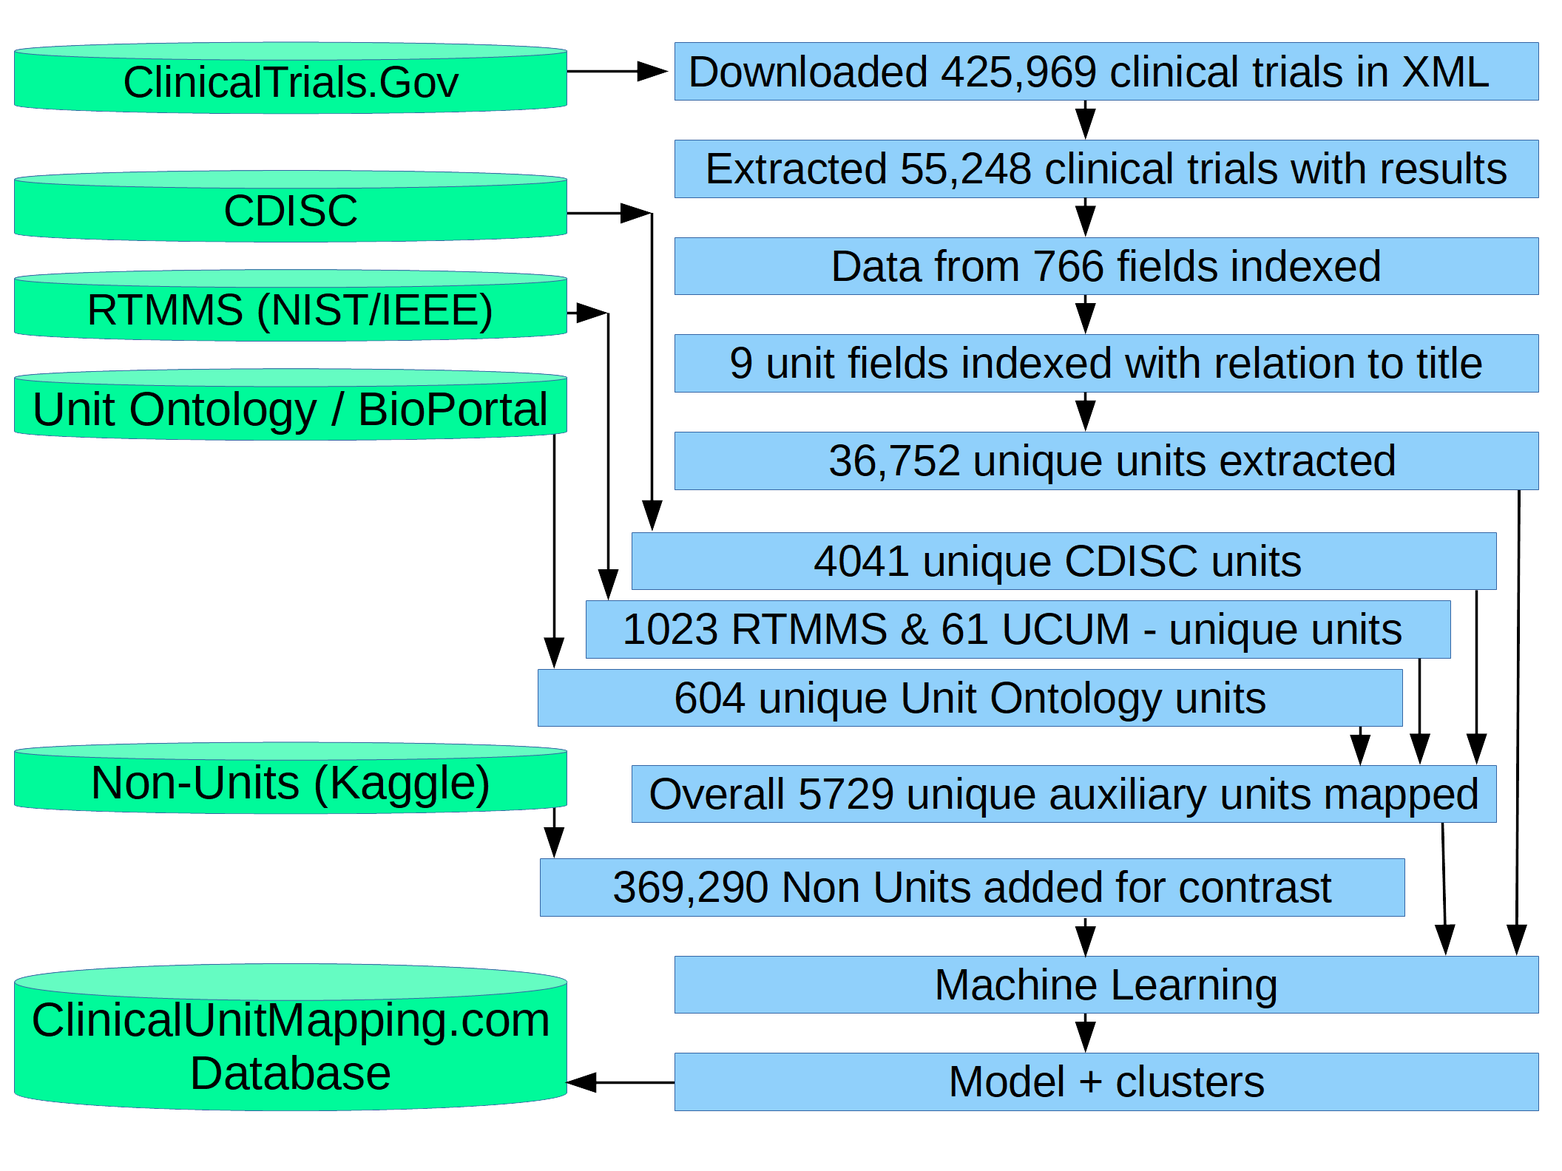
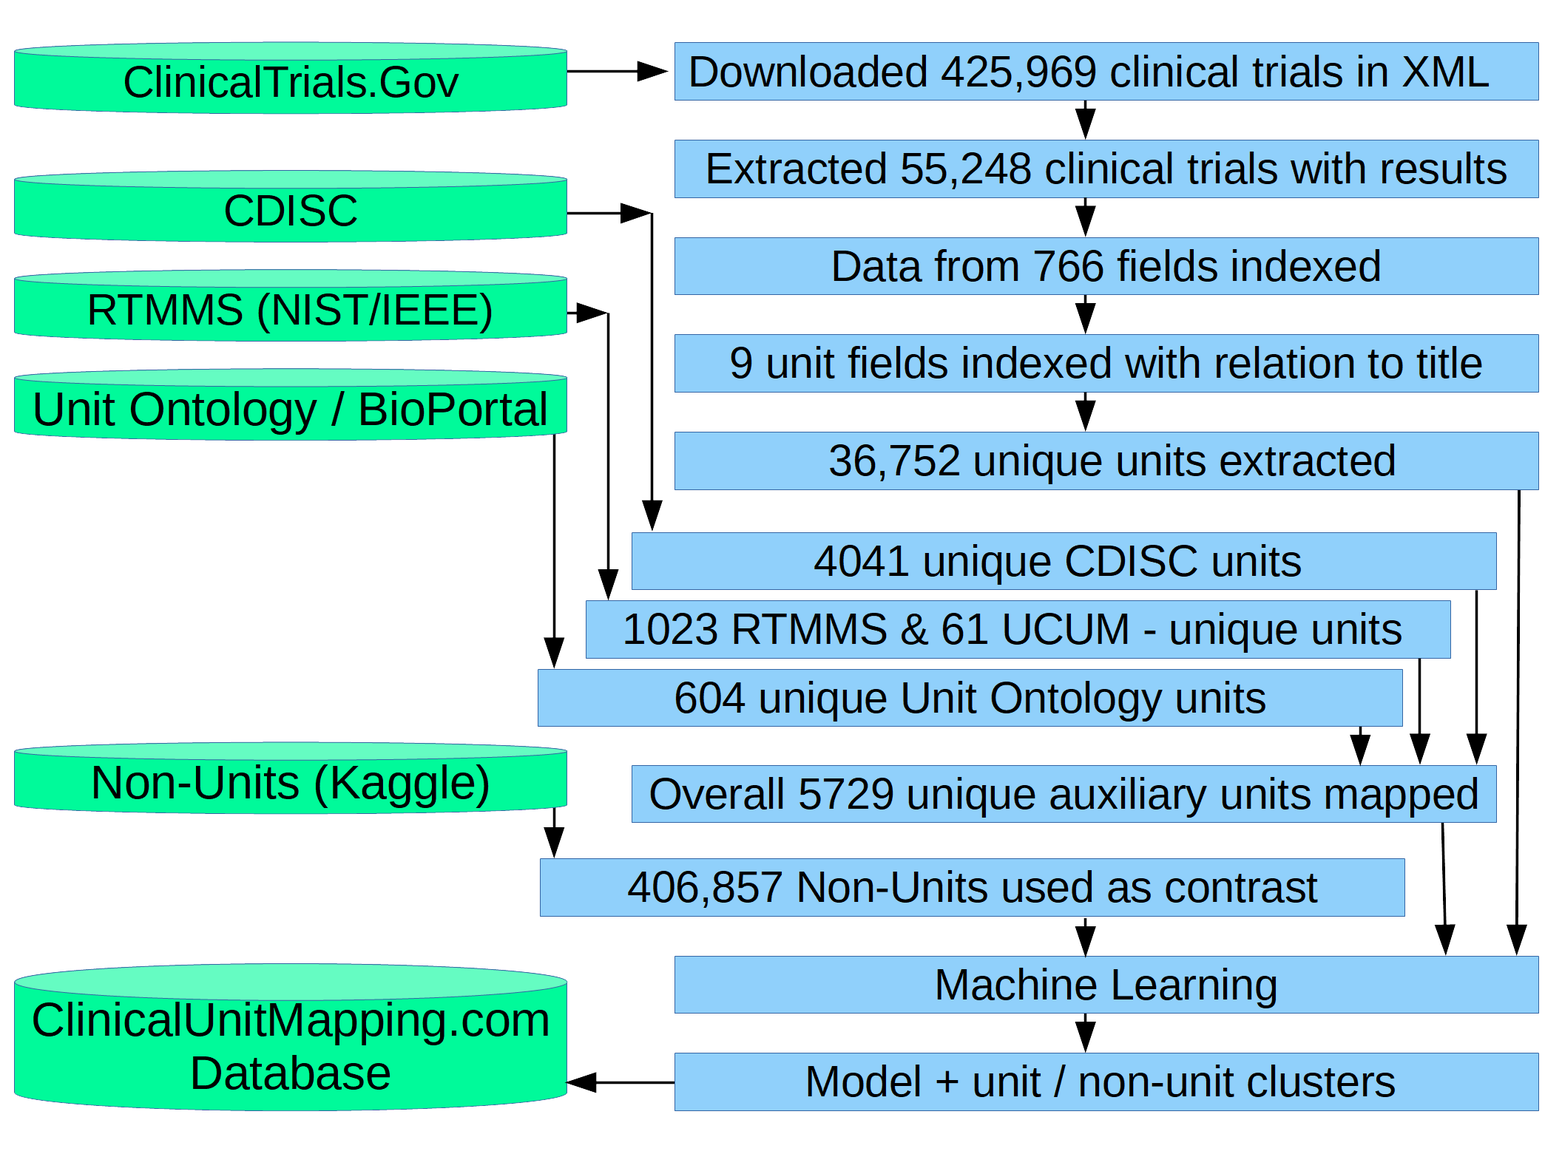
Upload presentations towards Berlin conference
Uploaded Covid-19 and unit mapping presentation code. Only code and some images were uploaded - large files and data were skipped.

Changed region(s): [[0.5, 0.8971, 0.9062, 0.959], [0.375, 0.7424, 0.8438, 0.7734]]

diff --git a/COVID19_Ensemble_Latest/COVID19_Ensemble_Latest.py b/COVID19_Ensemble_Latest/COVID19_Ensemble_Latest.py
@@ -154,9 +154,9 @@ QRCodeFileName = 'New_COVID19_Ensemble_Latest.png'
 PresentationURL = panel.panel(ConstractImageLinkAnchor(PublishURL,QRCodeFileName,'View this publication on the web',380), width=380, height=380)
 
 PresentationTitle = panel.panel('# The Reference Model for COVID-19 attempts to explain USA data', width=Width, height=40, margin = (0,0,0,0))
-PresentationVenue = panel.panel('[MODSIM WORLD, Norfolk, VA 20-22 May 2024](https://modsimworld.org/)', width=740, height=40, margin = (0,0,0,0))
+PresentationVenue = panel.panel('[2nd Global Congress on Healthcare & Patient Safety, Berlin, July 29 - 30, 2024](https://healthcareconference.pagicle.com/)', width=750, height=40, margin = (0,0,0,0))
 
-PresentationAuthors = panel.panel("By: ***[Jacob Barhak](https://sites.google.com/view/jacob-barhak/home)***", width=280, height=40, margin = (0,0,0,0))
+PresentationAuthors = panel.panel("By: ***[Jacob Barhak](https://sites.google.com/view/jacob-barhak/home)***", width=350, height=40, margin = (0,0,0,0))
 
 PresentationHeader = panel.Column( PresentationTitle, panel.Row (PresentationAuthors , PresentationVenue, margin = (0,0,0,0)), margin = (0,0,0,0))
 
@@ -277,7 +277,7 @@ The Reference Model for disease progression was initially a diabetes model. It u
 
 The model performs simulation at the individual level while modeling entire populations using the MIcro-Simulation Tool (MIST), employing High Performance Computing (HPC), and using machine learning techniques to combine models.
 
-The Reference Model technology was transformed to model COVID-19 near the start of the epidemic. The model is now composed of multiple models from multiple contributors that represent different phenomena: It includes infectiousness models, transmission models, human response / behavior models, mortality models, and observation models. Some of those models were calculated at different scales including cell scale, organ scale, individual scale, and population scale.
+The Reference Model technology was transformed to model COVID-19 near the start of the epidemic. The model is now composed of multiple models from multiple contributors that represent different phenomena: It includes infectiousness models, transmission models, human response / behavior models, hospitalization models, mortality models, and observation models. Some of those models were calculated at different scales including cell scale, organ scale, individual scale, and population scale.
 
 The Reference Model has therefore reached the achievement of being the first known multi-scale ensemble model for COVID-19. This project is ongoing and this presentation is constantly updated for each venue. To access the most recent publication please use this link [https://www.clinicalunitmapping.com/show/COVID19_Ensemble_Latest.html](https://www.clinicalunitmapping.com/show/COVID19_Ensemble_Latest.html)
 
@@ -286,6 +286,9 @@ The Reference Model has therefore reached the achievement of being the first kno
 
 Different versions of this presentation can be accessed below: 
 
+
+
+* [2nd Global Congress on Healthcare & Patient Safety, Berlin, July 29 - 30, 2024](https://healthcareconference.pagicle.com/) - [view presentation](https://www.clinicalunitmapping.com/show/COVID19_Ensemble_Berlin_2024_07_22.html) , [download presentation](https://www.clinicalunitmapping.com/download/COVID19_Ensemble_Berlin_2024_07_22.html)
 * [MODSIM WORLD, Norfolk, VA 20-22 May 2024](https://modsimworld.org/) - [view presentation](https://www.clinicalunitmapping.com/show/COVID19_Ensemble_MODSIM_2024_05_19.html) , [download presentation](https://www.clinicalunitmapping.com/download/COVID19_Ensemble_MODSIM_2024_05_19.html)
 * [CAFCW23 Computational Approaches for Cancer Workshop, November 12, 2023](https://ncihub.cancer.gov/groups/cafcw/cafcw23/cafcw23_program) - [view presentation](https://www.clinicalunitmapping.com/show/COVID19_Ensemble_CAFCW_2023_11_12.html) , [download presentation](https://www.clinicalunitmapping.com/download/COVID19_Ensemble_CAFCW_2023_11_12.html)
 * [2023 MSM Consortium Meeting - Past2Future, NIH Campus, Natcher Conference Center, Bethesda MD, 28-29 June 2023](https://www.imagwiki.nibib.nih.gov/index.php/imag-events/2023-MSM-Meeting)  - [view presentation](https://www.clinicalunitmapping.com/show/COVID19_Ensemble_MSM_IMAG_2023_06_28.html) , [download presentation](https://www.clinicalunitmapping.com/download/COVID19_Ensemble_MSM_IMAG_2023_06_28.html)
@@ -302,12 +305,6 @@ PublishURL = 'https://www.clinicalunitmapping.com/show/'+SavedFileName
 CodePublishURL = 'https://github.com/Jacob-Barhak/Presentations/tree/master/COVID19_Ensemble_Latest'
 QRCodeFileName = 'New_COVID19_Ensemble_Latest.png'
  
-PresentationURL = panel.panel(ConstractImageLinkAnchor(PublishURL,QRCodeFileName,'View this publication on the web',380), width=380, height=380)
-
-PresentationTitle = panel.panel('# The Reference Model for COVID-19 attempts to explain USA data', width=Width, height=40, margin = (0,0,0,0))
-PresentationVenue = panel.panel('[CAFCW23 Computational Approaches for Cancer Workshop, November 12, 2023](https://ncihub.cancer.gov/groups/cafcw/cafcw23/cafcw23_program)', width=740, height=40, margin = (0,0,0,0))
-
-
 
 if YouTubeVideo:
     Section0Video = panel.panel(YouTubeVideoEmbed('https://www.youtube.com/embed/s9L-qFF84Ew?si=V5yd2kTC3fW5Mtmc', Width=Width,Height=590))
@@ -329,16 +326,17 @@ Section1_1_2 = panel.panel(FixReferences(RefDict,"""
 
 The ensemble model structure is presented above. The transition probabilities between states is controlled by multiple models:
 
-* ***Infectiousness Models***: Indicating the level of infectiousness of each individual from time of infection. 
-* ***Transmission Models***: Indicating the probability of contracting the disease considering encounters with infected individuals.
+* ***Infectiousness models***: Indicating the level of infectiousness of each individual from time of infection. 
+* ***Transmission models***: Indicating the probability of contracting the disease considering encounters with infected individuals.
 * ***Response models***: The behavior choice of each individual that affects the number of interactions in response to the pandemic. 
 * ***Hospitalization models***: Indicating the probability and time of hospitalization of infected individuals.
-* ***Mortality Models***: A variety of models defining mortality of infected individuals 
+* ***Mortality models***: A variety of models defining mortality of infected individuals 
     * ***Mortality rate models***: Mortality tables indicating the probability of dying from COVID-19 by age.
     * ***Mortality time***: Models attempting to estimate the time of death in days since infection
     * ***Mortality distribution***: A model that indicates the daily probability of mortality by age group since infection. 
 * ***Recovery model***: defines condition of recovery as a combination of infectiousness, mortality probability, mortality time, and time since infection. 
-* ***Observation Models***: defines how an observer sees the numbers - recall that numbers reported are not always accurate. The observer model corrects this.
+* ***Observation models***: defines how an observer sees the numbers - recall that numbers reported are not always accurate. The observer model corrects this.
+
 The Reference Model combines these models and matches their results to results from The COVID Tracking project [1].
 
 ### Initialization
@@ -377,7 +375,7 @@ Section2_2 = panel.panel(FixReferences(RefDict,"""### Combined Infectiousness Mo
 
 The relative infectiousness per day since infection will be assembled by the ensemble.
 
-If such information was available in May 2022, the DHS could have had infectiousness information at hand.
+If such information was available in May 2020, the DHS could have had infectiousness information at hand.
 """), width=Width, height=None)
 
 Figure_5 = ObjectInlineHTML(ResourceDir + '/EnsembleInfectiousness.html', Width=1150, Height=320)
@@ -520,7 +518,7 @@ Section7_1 = panel.panel(FixReferences(RefDict,"""### Results
 The results presented here was executed on a server with 24 CPU cores for about 6 weeks - this means roughly 3 year of computation on a single CPU core. The Interactive plots below summarize the results:
 This simulation has 4 cohorts for each state starting at days 0,15,30,45. Each simulation runs for 21 days and repeated 10 times. Simulation was stopped after 40 iterations.
 
-* ***Population Plot - Top Left*** - This plot shows difference between model and observed data - fitness. The fitness score is displayed for each state population starting at different times. ***Each different start time is considered as a different cohort of the population***. A viewer hovering with the mouse over the circle will see information about the population cohort at that time including number of infections and deaths. The numbers are presented as model projection / observed numbers by the COVID tracking project. The numbers are scaled to cohort batch size of ***10,000 individuals*** in this simulation. The fitness score in this work is a norm of the observed mortality difference and observed infections difference.
+* ***Population Plot - Top Left*** - This plot shows difference between model and observed data - fitness. The fitness score is displayed for each state population starting at different times. ***Each different start time is considered as a different cohort of the population***. A viewer hovering with the mouse over the circle will see information about the population cohort at that time including number of infections and deaths. The numbers are presented as model projection / observed numbers by the COVID tracking project. The numbers are scaled to cohort batch size of ***10,000 individuals***. The fitness score is a norm of the model to observed differences in mortality, infections, and hospitalization normalized.
 
 * ***Model Mixture Plot - Top Right*** -  This plot shows the influence of each model on the ensemble. Models from the same group that compete with each other are presented in the same color and their combined influence will be 1. Initially all models in a group have the same influence so in iteration 1 the plot shows many bars in the same height. When dragging the iteration slider to increase the iteration, it is possible to see that some models gain influence while others lose it. It is possible for a model to be fully rejected. 
 
@@ -529,11 +527,11 @@ This simulation has 4 cohorts for each state starting at days 0,15,30,45. Each s
 
 ## The interesting element in this simulation:
 
-* Preference of infectiousness profiles that peak around day 5. 
+* Preference of longer infectiousness profiles. 
 * The transmission model where warm weather reduces transmission becomes dominant.
 * Preference of the Castiglione mortality model based on cell and organ failure that deals with mortality time.
 * Behavioral response models based of mobility data are less influential than those based on state closure regulations.
-* The observer models with extreme multiplier of 20 is eliminated and is replaced by other observer models that are considered mainstream.
+* The observer models with extreme infectiousness multiplier of 20 is eliminated and is replaced by a blend of observer models with multipliers of 1, 5, and 7.5.
 
 """), width=Width, height=600)
 
@@ -552,11 +550,11 @@ Section10_1 = panel.panel(FixReferences(RefDict,"""### Conclusions
 
 * The technique used is a form of Explainable Artificial Intelligence that relies on computing power.
 
-* It is difficult to explain the phenomena like COVID-19 impact in a population using data collected for 3 weeks using mechanistic models.
+* It is difficult to explain the phenomena like COVID-19 impact in a population using data collected for only 3 weeks using mechanistic models.
 
     * To reach conclusions, more than a few weeks of data are required to balance for errors and data has to be reused.
 
-    * Some models that seem dominant in short simulations are eliminated when computation is repeated. 
+    * Model mixture changes when computation was repeated for many cohorts over a longer period. 
 
 * Peak average infectiousness is around day 5 from infection.
 
@@ -578,8 +576,8 @@ Section10SummaryText = panel.panel(FixReferences(RefDict,"""
 ### Reproducibility:
 Results presented in this work are archived in the file MIST_Ref_COVID19_Prelim_2024_03_06.zip for reproducibility purposes. MIST version 0.99.7.8 and python 2.7.18 with the Anaconda distribution were used for executing the simulation.
 Visualization processing is archived in: ExplorationCOVID19_2024_03_06_10K_01Apr_15Dx3_21Dx40x48.zip .
-This presentation is accessible [here](%s). The code that generated the presentation can be accessed [here](%s). This presentation is generated using Python 2.7.16, panel-0.8.0, holoviews 1.12.7, bokeh-1.4.0.
-Published versions of this presentation are archived [here](https://github.com/Jacob-Barhak/Presentations/commits/master/COVID19_Ensemble_Latest)
+This presentation is accessible [here](%s). The code that generated the presentation can be accessed [here](%s) without the large resource files. This presentation is generated using Python 2.7.16, panel-0.8.0, holoviews 1.12.7, bokeh-1.4.0.
+Published versions of this presentation are provided at the first tab.
 
 ### Conflict of Interest Statement:
 Payment/services info: Dr. Barhak reports non-financial support and other from Rescale, and MIDAS Network, other from Amazon AWS, Microsoft Azure, MIDAS network, other from The COVID tracking project at the Atlantic, other from John Rice and Jered Hodges. 
@@ -646,13 +644,13 @@ Thanks to these organizations for providing cloud computing power:
 
 Thanks to SciPod for good video production services.
 
-Thanks to those who hosted me / my compute server:
+Thanks to those who hosted and helped with my compute server:
 
 * John Rice
 * Jered Hodges
 * United Solutions
 * Jeff Pape
-* Boris and Halina Barhak (my parents)
+* Halina, Boris, and Michael Barhak (my family)
 * Ronen Ozer
 
 Additional thanks for those helping locate and interpret Temperature data:

diff --git a/Unit_Mapping_Latest/Unit_Mapping_Latest.py b/Unit_Mapping_Latest/Unit_Mapping_Latest.py
@@ -137,7 +137,7 @@ QRCodeFileName = 'New_Unit_Mapping_Latest.png'
 PresentationURL = panel.panel(ConstractImageLinkAnchor(PublishURL,QRCodeFileName,'View this presentation on the web',480), width=480, height=480)
 
 PresentationTitle = panel.panel('# ClinicalUnitMapping.Com Takes a Small Step Towards Machine Comprehension of Clinical Trial Data', width=700, height=80, margin = (0,0,0,0))
-PresentationVenue = panel.panel('[MODSIM WORLD, Norfolk, VA 20-22 May 2024](https://modsimworld.org/)', width=300, height=80, margin = (0,0,0,0))
+PresentationVenue = panel.panel('[2nd Global Congress on</br>Healthcare & Patient Safety</br> Berlin, July 29 - 30, 2024](https://healthcareconference.pagicle.com/)', width=280, height=80, margin = (0,0,0,0))
 PresentationAuthors = panel.panel("By: [Jacob Barhak](http://sites.google.com/site/jacobbarhak/) </br> & [Joshua Schertz](https://joshschertz.com/)", width=120, height=80, margin = (0,0,0,0))
 PresentationHeader = panel.Row ( PresentationTitle,  PresentationAuthors , PresentationVenue, margin = (0,0,0,0))
 
@@ -179,12 +179,13 @@ ClinicalTrials.Gov is the database storing data from clinical trials. Many clini
 
 This presentation will discuss how python tools are used to: 1) Process and index the data, 2) Find similar units using NLP and machine learning, 3) Create a web interface to support user mapping of those units, 4) Use advanced machine learning tools such as transformers for Natural Language Processing (NLP) to drive inference and core-sets to speed up labeling and quickly setup an inference engine. 
 
-This project is ongoing and this presentation is constantly updated for each venue. This presentation will focus on improvement of supervised learning using transformers and accelerated labeling using core-sets. The latest interactive presentation with results is accessible through: [https://www.clinicalunitmapping.com/show/Unit_Mapping_Latest.html](https://www.clinicalunitmapping.com/show/Unit_Mapping_Latest.html)
+This project is ongoing and this presentation is constantly updated for each venue. This presentation will focus on latest improvements of supervised learning using transformers and accelerated labeling and unit inference. The latest interactive presentation with results is accessible through: [https://www.clinicalunitmapping.com/show/Unit_Mapping_Latest.html](https://www.clinicalunitmapping.com/show/Unit_Mapping_Latest.html)
 
 The intention is to unify unit standards and machine learning tools that will be able to map all units reported by clinical trials. With such capabilities, the data in this important clinical trials database would become machine comprehensible.
 
-*** This is an interactive presentation - please explore the tabs above and interact with the figures - they have sliders and widgets and hover information that will allow interaction. Following the tabs in order from left to right will tell the story. Different versions of this presentation can be accessed below: ***
+*** This is an interactive presentation. Follow the tabs in from left to right. Different versions can be accessed below: ***
 
+* [2nd Global Congress on Healthcare & Patient Safety, Berlin, July 29 - 30, 2024](https://healthcareconference.pagicle.com/) - [view presentation](https://clinicalunitmapping.com/show/Unit_Mapping_Berlin_2024_07_22.html) , [download presentation](https://clinicalunitmapping.com/download/Unit_Mapping_Berlin_2024_07_22.html)
 * [MODSIM WORLD Norfolk, VA, 20-22 May 2024](https://modsimworld.org/)  - [view presentation](https://clinicalunitmapping.com/show/Unit_Mapping_MODSIM_2024_05_19.html) , [download presentation](https://clinicalunitmapping.com/download/Unit_Mapping_MODSIM_2024_05_19.html)
 * [Austin Python meetup, January 10, 2024](https://www.meetup.com/austinpython/events/297392368/) [view presentation](https://www.clinicalunitmapping.com/show/Unit_Mapping_AustinMeetup_2024_01_10.html) , [download presentation](https://www.clinicalunitmapping.com/download/Unit_Mapping_AustinMeetup_2024_01_10.html) , [view video](https://youtu.be/d4qB9xaPU-U?si=MkPfADDtJuyK4T90)
 * [CAFCW23 - Computational Approaches for Cancer Workshop, November 12, 2023](https://ncihub.cancer.gov/groups/cafcw/cafcw23/cafcw23_program) - [view presentation](https://clinicalunitmapping.com/show/Unit_Mapping_CAFCW_2023_10_29.html) , [download presentation](https://clinicalunitmapping.com/download/Unit_Mapping_CAFCW_2023_10_29.html)
@@ -332,15 +333,15 @@ Section3SupervisedMachineLearningOverview = panel.panel(FixReferences(RefDict,""
 </br>
 ## Training Numbers
 
-- 41795 total unique units used in the data base.
-- 36752 used in ClinicalTrials.Gov .
-- 5043 units appeared in other standards and auto mapped.
-- 406857 non units used to contrast units.
+- 41,795 total unique units used in the data base.
+- 36,752 used in ClinicalTrials.Gov .
+- 5,043 units appeared in other standards and auto mapped.
+- 406,857 non units used to contrast units.
 - 679 core-set units.
-- 17203 units were labeled overall and used in training - from clusters 0-11. 
-- 3249 unique target labels identified so far
-- 2,757,866 / 689,467 unit and context records in train / validate split of 80%/20%.
-- 6,320,238 records/epoch trained for 5 epochs to allow IEEE and CDISC standardization. 
+- 21,121 units were labeled overall and used in training - from clusters 0-18. 
+- 4029 unique target labels identified so far
+- 2,774,780 / 693,695  unit and context records in train / validate split of 80%/20%.
+- 6,370,898 records/epoch trained for 5 epochs to allow IEEE and CDISC standardization. 
 
 
 # Inference
@@ -348,7 +349,7 @@ Section3SupervisedMachineLearningOverview = panel.panel(FixReferences(RefDict,""
 - After the AI was trained Inference was performed using transformers.
 - Inference for the IEEE/CDISC standards were conducted as well to build a database. 
 - The NLP tools attempt to comprehend the text and have behavior somewhat comparable to humans.
-- Despite high accuracy of validation set. recall that roughly 10% of clusters have been mapped. Accuracy will drop for unmapped clusters.
+- Despite high accuracy of validation set. recall that less than 20% of clusters have been mapped. Accuracy will drop for unmapped clusters.
 - **Actual inference accuracy will be established when manual mapping will finish for all clusters**
 - **The inference engine is still experimental and limited - it is still a prototype.**
 
@@ -449,6 +450,7 @@ Section5ShowTheSite = panel.panel(FixReferences(RefDict,"""
 # Explore the AI on the Website
 <object width="1150" height="650" data="https://clinicalunitmapping.com/">Warning: web site could not be included!</object>
 
+Please access the website through [ClinicalUnitMapping.com](https://clinicalunitmapping.com/) to get full functionality.
 """), width=Width, height=500)
 
 
@@ -466,7 +468,7 @@ With such tools it will be possible for machines to:
 * Recognize medical units, even if misspelled.
 * Translate units among different standards.
 * Comprehend medical units.
-* Comprehend quantities and numbers associated with units.
+* Comprehend quantities if numbers are associated with the units.
 
 Such AI will replace many tedious human tasks.
 
@@ -482,8 +484,8 @@ Section6AdditionalInfo = panel.panel("""
 
 ## Reproducibility:
 
-This presentation is accessible [here](%s). The code that generated the presentation can be accessed [here](%s). This presentation is generated using Python 2.7.16, panel-0.8.0, holoviews 1.12.7, bokeh-1.4.0.
-Code for ingestion and clustering are archived in the file: AnalyzeCT_2022_11_19.zip. AI and web site database were created using the code in AnalyzeCT_full_2024_04_22.zip. Accuracy analysis was archived in AnalyzeCT_full_2024_05_04.zip
+This presentation is accessible [here](%s). The code that generated the presentation can be accessed [here](%s) without some data. This presentation is generated using Python 2.7.16, panel-0.8.0, holoviews 1.12.7, bokeh-1.4.0.
+Code for ingestion and clustering are archived in the file: AnalyzeCT_2022_11_19.zip. AI model, accuracy analysis, and web site database were created using the code in AnalyzeCT_full_2024_07_06.zip.
 Clinical Trials data archived in AllPublicXML_2022_08_26.zip. Bio Ontology Units downloaded on 2019_04_09, CDISC data downloaded on 2019_03_30 , RTMMS units downloaded on 2019_03_24 . 
 Tensorflow 2.10 and transformers 4.26.1 was used for Neural Network execution in Python 3.10.9 environment. DataHeroes 0.2 was used for core-set calculations.
 
@@ -541,7 +543,7 @@ Thanks to those who hosted me / my computing equipment:
 
 * John Rice
 * Jeff Pape
-* Boris and Halina Barhak (my parents)
+* Halina, Boris, and Michael Barhak (my family)
 
 
 """), width=int(Width * 0.5), height=None)
